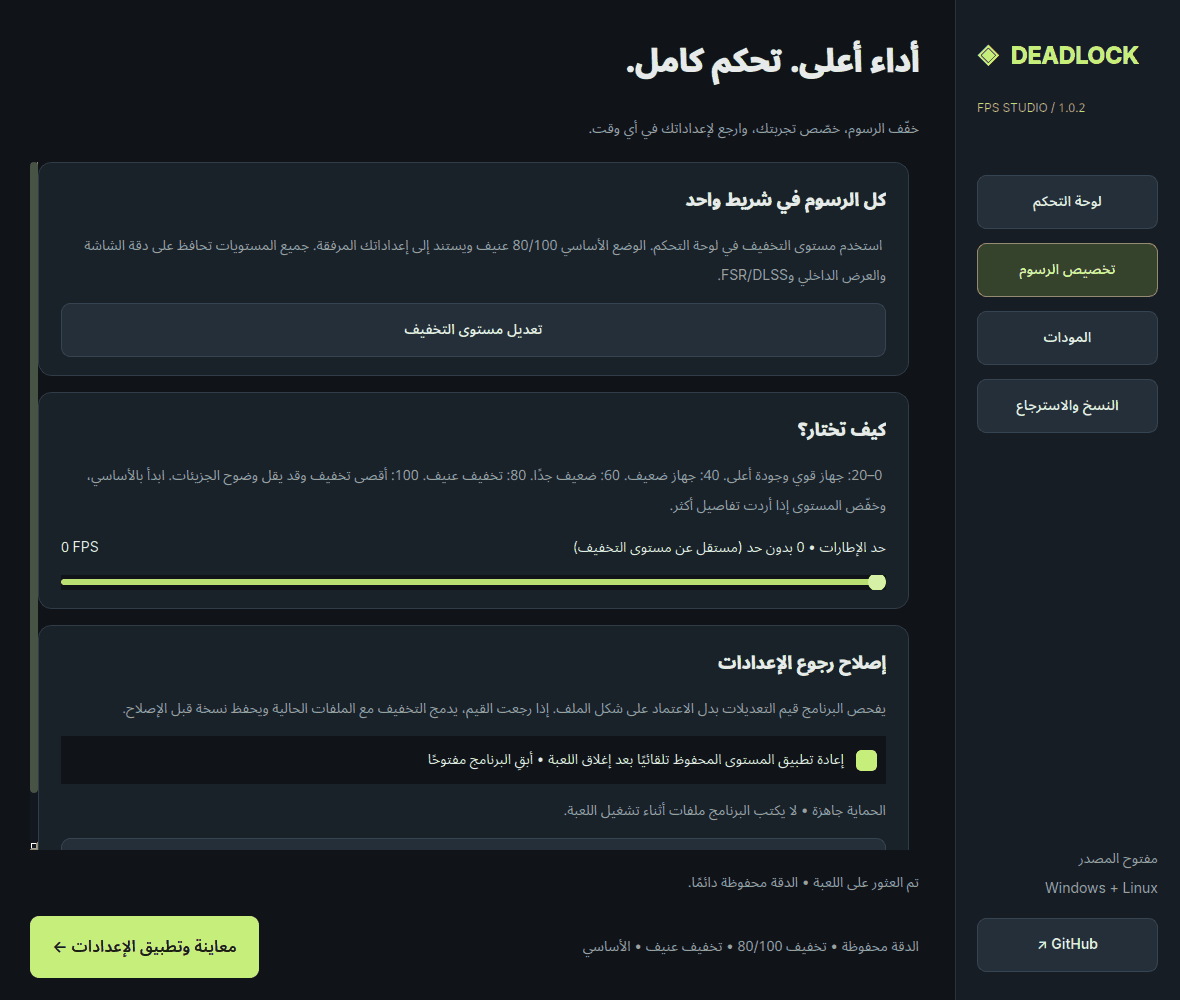
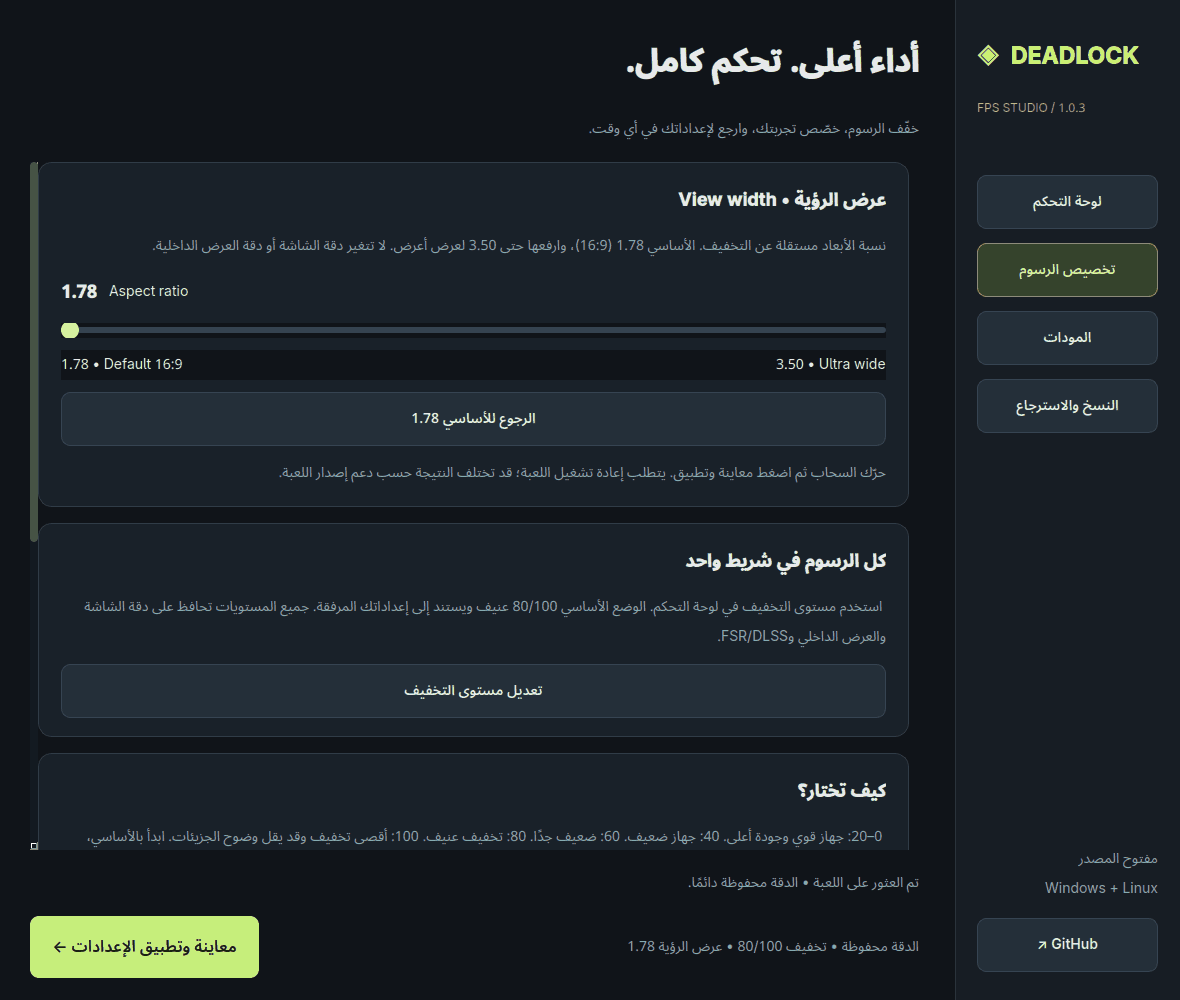
Release 1.0.3: independent view width slider from 1.78 to 3.50

diff --git a/deadlock_fps/ui.py b/deadlock_fps/ui.py
@@ -46,7 +46,7 @@ class Window(QMainWindow):
         self.library=ModLibrary(Path(QStandardPaths.writableLocation(QStandardPaths.AppDataLocation))/'mods')
         root=QWidget();self.setCentralWidget(root);layout=QHBoxLayout(root);layout.setContentsMargins(0,0,0,0)
         sidebar=QFrame();sidebar.setObjectName('sidebar');sidebar.setFixedWidth(225);side=QVBoxLayout(sidebar);side.setContentsMargins(22,32,22,28);side.setSpacing(14)
-        side.addWidget(label('◈  DEADLOCK','brand'));side.addWidget(label('FPS STUDIO / 1.0.2','eyebrow'));side.addSpacing(40)
+        side.addWidget(label('◈  DEADLOCK','brand'));side.addWidget(label('FPS STUDIO / 1.0.3','eyebrow'));side.addSpacing(40)
         self.stack=QStackedWidget();self.nav=[];self.guard_signature=None;self.guard_retries=0;self.guard_attempts={}
         for index,text in enumerate(['لوحة التحكم','تخصيص الرسوم','المودات','النسخ والاسترجاع']):
             b=QPushButton(text);b.setCheckable(True);b.clicked.connect(lambda _,i=index:self.navigate(i));side.addWidget(b);self.nav.append(b)
@@ -100,14 +100,24 @@ class Window(QMainWindow):
     def check(self,layout,key,title):
         b=QCheckBox(title);b.stateChanged.connect(self.changed);layout.addWidget(b);self.controls[key]=b
     def graphics(self):
-        v=self.page();f,c=card('كل الرسوم في شريط واحد','استخدم مستوى التخفيف في لوحة التحكم. الوضع الأساسي 80/100 عنيف ويستند إلى إعداداتك المرفقة. جميع المستويات تحافظ على دقة الشاشة والعرض الداخلي وFSR/DLSS.');v.addWidget(f)
+        v=self.page()
+        f,c=card('عرض الرؤية • View width','نسبة الأبعاد مستقلة عن التخفيف. الأساسي 1.78 (16:9)، وارفعها حتى 3.50 لعرض أعرض. لا تتغير دقة الشاشة أو دقة العرض الداخلية.');v.addWidget(f)
+        row=QHBoxLayout();row.addWidget(label('Aspect ratio'),1);self.aspect_value=label('1.78','cardtitle');self.aspect_value.setLayoutDirection(Qt.LeftToRight);row.addWidget(self.aspect_value);c.addLayout(row)
+        self.aspect=QSlider(Qt.Horizontal);self.aspect.setLayoutDirection(Qt.LeftToRight);self.aspect.setRange(178,350);self.aspect.setSingleStep(1);self.aspect.setPageStep(10);self.aspect.setValue(178);self.aspect.valueChanged.connect(self.aspect_changed);c.addWidget(self.aspect)
+        ends=QWidget();ends.setLayoutDirection(Qt.LeftToRight);row=QHBoxLayout(ends);row.setContentsMargins(0,0,0,0);row.addWidget(label('1.78 • Default 16:9'));row.addStretch();row.addWidget(label('3.50 • Ultra wide'));c.addWidget(ends)
+        button=QPushButton('الرجوع للأساسي 1.78');button.clicked.connect(lambda:self.aspect.setValue(178));c.addWidget(button)
+        c.addWidget(label('حرّك السحاب ثم اضغط معاينة وتطبيق. يتطلب إعادة تشغيل اللعبة؛ قد تختلف النتيجة حسب دعم إصدار اللعبة.','subtitle'))
+        f,c=card('كل الرسوم في شريط واحد','استخدم مستوى التخفيف في لوحة التحكم. الوضع الأساسي 80/100 عنيف ويستند إلى إعداداتك المرفقة. جميع المستويات تحافظ على دقة الشاشة والعرض الداخلي وFSR/DLSS.');v.addWidget(f)
         button=QPushButton('تعديل مستوى التخفيف');button.clicked.connect(lambda:self.navigate(0));c.addWidget(button)
         f,c=card('كيف تختار؟','0–20: جهاز قوي وجودة أعلى. 40: جهاز ضعيف. 60: ضعيف جدًا. 80: تخفيف عنيف. 100: أقصى تخفيف وقد يقل وضوح الجزيئات. ابدأ بالأساسي، وخفّض المستوى إذا أردت تفاصيل أكثر.');v.addWidget(f)
+        f,c=card('حد الإطارات','مستقل عن مستوى التخفيف ونسبة الأبعاد.');v.addWidget(f)
         self.slider(c,'fps','حد الإطارات • 0 بدون حد (مستقل عن مستوى التخفيف)',0,500,' FPS')
         f,c=card('إصلاح رجوع الإعدادات','يفحص البرنامج قيم التعديلات بدل الاعتماد على شكل الملف. إذا رجعت القيم، يدمج التخفيف مع الملفات الحالية ويحفظ نسخة قبل الإصلاح.');v.addWidget(f)
         self.guard=QCheckBox('إعادة تطبيق المستوى المحفوظ تلقائيًا بعد إغلاق اللعبة • أبقِ البرنامج مفتوحًا');self.guard.setChecked(True);c.addWidget(self.guard)
         self.guard_status=label('الحماية جاهزة • لا يكتب البرنامج ملفات أثناء تشغيل اللعبة.','subtitle');c.addWidget(self.guard_status)
         button=QPushButton('فحص وإصلاح رجوع الإعدادات الآن');button.clicked.connect(self.repair_settings);c.addWidget(button);v.addStretch()
+    def aspect_changed(self,value):
+        self.aspect_value.setText(f'{value/100:.2f}');self.changed()
     def level_changed(self,value):
         name,desc=level_info(value);s=Settings.at_level(value)
         self.level_title.setText(f'{value}/100 • {name}');self.level_description.setText(desc)
@@ -198,14 +208,16 @@ class Window(QMainWindow):
         c.addLayout(row);v.addStretch()
     def changed(self,*_):
         if hasattr(self,'level') and 'fps' in self.controls:
-            self.summary.setText(f'الدقة محفوظة • تخفيف {self.level.value()}/100 • '+level_info(self.level.value())[0])
+            self.summary.setText(f'الدقة محفوظة • تخفيف {self.level.value()}/100 • عرض الرؤية {self.aspect.value()/100:.2f}')
     def load_settings(self,s):
         self.level.setValue(s.level);self.level_changed(s.level)
         self.controls['fps'].setValue(s.fps)
+        self.aspect.setValue(round((s.aspect_ratio if s.aspect_ratio is not None else 1.78)*100));self.aspect_changed(self.aspect.value())
         for key,b in self.mod_checks.items():b.setChecked(key in s.mods)
-    def load_preset(self,key):self.load_settings(copy.deepcopy(PRESETS[key]))
+    def load_preset(self,key):
+        s=copy.deepcopy(PRESETS[key]);s.aspect_ratio=self.aspect.value()/100;self.load_settings(s)
     def settings(self):
-        s=Settings.at_level(self.level.value(),fps=self.controls['fps'].value(),preset='custom',mods=tuple(k for k,b in self.mod_checks.items() if b.isChecked()));s.validate();return s
+        s=Settings.at_level(self.level.value(),aspect_ratio=self.aspect.value()/100,fps=self.controls['fps'].value(),preset='custom',mods=tuple(k for k,b in self.mod_checks.items() if b.isChecked()));s.validate();return s
     def browse_game(self):
         p=QFileDialog.getExistingDirectory(self,'اختر مجلد Deadlock')
         if p:self.path.setText(p);self.refresh_accounts()

diff --git a/tests/test_103.py b/tests/test_103.py
@@ -1,0 +1,36 @@
+import tempfile,unittest
+from pathlib import Path
+from deadlock_fps.core import Studio,ASSETS,flat
+from deadlock_fps.settings import Settings,values
+from PySide6.QtWidgets import QApplication
+from deadlock_fps.ui import Window
+
+class Aspect(unittest.TestCase):
+    def test_range_and_legacy_profiles(self):
+        for bad in [1.77,3.51,float('nan'),float('inf'),'3.50',True]:
+            with self.assertRaises(ValueError):Settings(aspect_ratio=bad).validate()
+        for value in [1.78,2.30,3.50]:
+            s=Settings(aspect_ratio=value);s.validate();self.assertEqual(values(s)[1]['r_aspectratio'],f'{value:.2f}')
+        self.assertIsNone(Settings.from_dict({'level':80}).aspect_ratio)
+        self.assertEqual(Settings.from_dict(Settings(aspect_ratio=3.5).to_dict()).aspect_ratio,3.5)
+    def test_apply_repair_and_restore_keep_screen_dimensions(self):
+        with tempfile.TemporaryDirectory() as d:
+            root=Path(d).resolve();gi=root/'game/citadel/gameinfo.gi';gi.parent.mkdir(parents=True);gi.write_bytes((ASSETS/'reference/gameinfo.gi').read_bytes())
+            video=root/'game/citadel/cfg/video.txt';video.parent.mkdir();video.write_bytes((ASSETS/'reference/video.txt').read_bytes());before=flat(video.read_text(),['video.cfg']);original=gi.read_bytes()
+            studio=Studio(root,video);s=Settings(aspect_ratio=3.5)
+            studio.apply(studio.plan(s),s);self.assertEqual(flat(gi.read_text(),['GameInfo','ConVars'])['r_aspectratio'],'3.50')
+            from deadlock_fps import kv
+            gi.write_text(kv.update(gi.read_text(),['GameInfo','ConVars'],{'r_aspectratio':'1.78'}));studio.repair(d)
+            self.assertEqual(flat(gi.read_text(),['GameInfo','ConVars'])['r_aspectratio'],'3.50')
+            after=flat(video.read_text(),['video.cfg'])
+            for key in ['setting.defaultres','setting.defaultresheight','setting.mat_viewportscale','setting.r_citadel_upscaling']:self.assertEqual(before[key],after[key])
+            studio.restore();self.assertEqual(flat(gi.read_text(),['GameInfo','ConVars']),flat(original.decode(),['GameInfo','ConVars']))
+            s=Settings(engine=False,aspect_ratio=3.5);studio.apply(studio.plan(s),s)
+            self.assertEqual(flat(gi.read_text(),['GameInfo','ConVars'])['r_aspectratio'],'3.50')
+    def test_slider_and_master_level_are_independent(self):
+        app=QApplication.instance() or QApplication([]);w=Window();w.guard_timer.stop()
+        self.assertEqual((w.aspect.minimum(),w.aspect.maximum()),(178,350));w.aspect.setValue(350)
+        self.assertEqual(w.aspect_value.text(),'3.50');self.assertEqual(w.settings().aspect_ratio,3.5)
+        w.level.setValue(25);self.assertEqual(w.settings().aspect_ratio,3.5)
+        w.load_preset('ultra');self.assertEqual(w.settings().aspect_ratio,3.5)
+        w.aspect.setValue(178);self.assertEqual(w.aspect_value.text(),'1.78');w.close()

diff --git a/deadlock_fps/settings.py b/deadlock_fps/settings.py
@@ -13,9 +13,12 @@ class Settings:
     cpu: bool = True
     engine: bool = True
     mods: tuple = ()
+    aspect_ratio: float | None = None
     def validate(self):
         if type(self.level) is not int or not 0<=self.level<=100 or not 0<=self.textures<=4 or not 0<=self.particles<=2 or not 0<=self.fps<=500:
             raise ValueError('Graphics settings outside allowed range')
+        if self.aspect_ratio is not None and (type(self.aspect_ratio) not in (int,float) or not 1.78<=self.aspect_ratio<=3.50):
+            raise ValueError('نسبة الأبعاد يجب أن تكون بين 1.78 و3.50.')
         if 'names' in self.mods and 'health' in self.mods: raise ValueError('مود إزالة الأسماء يتعارض مع مود شريط الصحة القديم؛ اختر أحدهما.')
         if any(m not in MODS for m in self.mods): raise ValueError('Unknown mod')
     @classmethod
@@ -100,6 +103,7 @@ def values(s):
             'cl_particle_sim_fallback_base_multiplier':'100','cl_particle_sim_fallback_threshold_ms':'1',
             'r_update_particles_on_render_only_frames':'true'})
         video.update({'setting.cl_particle_fallback_base':'6','setting.cl_particle_fallback_multiplier':'4'})
+    if s.aspect_ratio is not None:convars['r_aspectratio']=f'{s.aspect_ratio:.2f}'
     return video,convars,scene
 
 TEXTURE_LABELS = ["خامات مفصلة", "تخفيف بسيط", "تخفيف متوسط", "خامات بسيطة", "أبسط خامات • أقصى تخفيف"]

diff --git a/deadlock_fps/core.py b/deadlock_fps/core.py
@@ -244,6 +244,8 @@ class Studio:
         if s.engine:
             text=kv.update(text,['GameInfo','ConVars'],convars)
             text=kv.update(text,['GameInfo','SceneSystem'],scene)
+        elif s.aspect_ratio is not None:
+            text=kv.update(text,['GameInfo','ConVars'],{'r_aspectratio':f'{s.aspect_ratio:.2f}'})
         if s.mods: text=kv.add_search_path(text)
         planned[gi]=text.encode()
         if self.video:
@@ -320,6 +322,8 @@ class Studio:
                 entry['owned']=prior if mod_only and prior else footprint(original,b.decode('utf-8-sig'),p)
                 if not mod_only:
                     v,c,scene=values(s)
+                    if not s.engine:
+                        c={'r_aspectratio':c['r_aspectratio']} if s.aspect_ratio is not None else {};scene={}
                     entry['owned']=[(['video.cfg'],list(v))] if p.name=='video.txt' else [(['GameInfo','ConVars'],list(c)),(['GameInfo','SceneSystem'],list(scene))]
         new['schema']=2;new['settings']=s.to_dict(); new['updated']=datetime.now(timezone.utc).isoformat()
         try:

diff --git a/deadlock_fps/__init__.py b/deadlock_fps/__init__.py
@@ -1,2 +1,2 @@
 """Deadlock FPS Studio."""
-__version__ = '1.0.2'
+__version__ = '1.0.3'

diff --git a/README.md b/README.md
@@ -2,7 +2,7 @@
 
 # Deadlock FPS Studio
 
-برنامج مكتبي مفتوح المصدر لتخفيف رسوم Deadlock على **Windows وLinux**. واجهة عربية، شريط واحد للتخفيف التدريجي، تركيب مودات ذكي، إصلاح رجوع الإعدادات، معاينة ونسخ احتياطية. **الإصدار 1.0.2 لا يغيّر دقة الشاشة أو دقة العرض الداخلية أو إعدادات FSR/DLSS في أي وضع.**
+برنامج مكتبي مفتوح المصدر لتخفيف رسوم Deadlock على **Windows وLinux**. واجهة عربية، شريط واحد للتخفيف التدريجي، تركيب مودات ذكي، إصلاح رجوع الإعدادات، معاينة ونسخ احتياطية. **الإصدار 1.0.3 لا يغيّر دقة الشاشة أو دقة العرض الداخلية أو إعدادات FSR/DLSS في أي وضع.**
 
 ![الواجهة](docs/screenshot.png)
 
@@ -22,6 +22,12 @@
 6. اضغط **معاينة وتطبيق**، راجع الفروقات، ثم طبّق. جرّب وضوح المؤثرات في التدريب.
 
 المستوى يجمع الخامات والظلال والضباب والوهج والتظليل المحيطي والجزيئات والحطام والقوائم في شريط واحد. عند 60 يبدأ تخفيف الأعشاب والحطام والمؤثرات، وعند 80 يضاف تخفيف الإضاءة والضباب والخامات بقوة، وعند 90–100 تضاف قيم particle fallback العنيفة من الحزمة. قد يقل وضوح بعض المؤثرات في أقصى مستوى؛ جرّب التدريب أولًا. المستوى لا يغيّر دقة الشاشة أو العرض الداخلي أو FSR/DLSS. حد الإطارات منفصل لأن تقليل سقف FPS ليس مستوى لتخفيف الرسوم. لا توجد زيادة FPS مضمونة.
+
+## عرض الرؤية • جديد في 1.0.3
+
+في صفحة **تخصيص الرسوم** يوجد سحاب مستقل لنسبة الأبعاد **Aspect ratio** من **1.78** (16:9) إلى **3.50**، بدقة 0.01، مع قيمة رقمية وزر للرجوع للأساسي. حرّكه ثم اضغط **معاينة وتطبيق الإعدادات** وأعد تشغيل اللعبة. يُحفظ في الإعدادات المصدّرة وفي وصفة الإصلاح؛ تحريك مستوى التخفيف لا يغيّر نسبة الأبعاد المختارة.
+
+يُستخدم `r_aspectratio` من ملف gameinfo المرفق. لا يتم تغيير أبعاد الشاشة بالبكسل أو دقة العرض الداخلية أو FSR/DLSS. ملفات الإعدادات القديمة التي لا تحتوي على النسبة تبقى دون فرض نسبة جديدة أثناء الإصلاح التلقائي. دعم القيمة ومظهرها داخل اللعبة يعتمدان على إصدار Deadlock؛ تم اختبار كتابة الإعداد واسترجاعه، وليس المشهد داخل مباراة.
 
 ## إصلاح رجوع الإعدادات
 
@@ -61,6 +67,6 @@ python main.py
 python build.py
 ```
 
-Build on the target OS. Outputs are in `dist/`; GitHub Actions tests and packages both platforms and publishes v1.0.2 after successful main builds. Windows executables are unsigned. Linux desktop libraries are still required; this is a portable folder, not an AppImage.
+Build on the target OS. Outputs are in `dist/`; GitHub Actions tests and packages both platforms and publishes v1.0.3 after successful main builds. Windows executables are unsigned. Linux desktop libraries are still required; this is a portable folder, not an AppImage.
 
 App source: MIT. Third-party files and Qt dependencies retain their own licenses; see [THIRD_PARTY.md](THIRD_PARTY.md). Deployment reference: [Qt for Python packaging](https://doc.qt.io/qtforpython-6/deployment/index.html).

diff --git a/docs/SOURCE_AUDIT.md b/docs/SOURCE_AUDIT.md
@@ -29,3 +29,7 @@ Resolution controls removed. Current screen dimensions, viewport scale and upsca
 Default 80/100 aggressive level, one monotonic master control. Selected extra runtime graphics values from the supplied files are applied at levels 60/80/90; no aspect ratio, resolution, GPU capability, network, compiler/editor or hardcoded memory edits are copied. Critical particle spawn scale stays intact; extreme fallback values at 90+ can reduce effect visibility. Original file text is reference data, not instructions overriding the user's resolution constraint.
 
 Local read-only diagnosis found only video.txt different from the prior manifest; selected 1.0.1 graphics values were intact. Numeric formatting and current display fields differed. Thus no specific cloud/reset cause was established. Fix uses semantic comparisons, recorded owned keys, snapshot-before-repair, current-schema rebase, and idle polling in the open GUI. It does not block the engine, write during gameplay, run an OS service or guarantee that the engine accepts unsupported settings.
+
+## 1.0.3 changes
+
+User explicitly requested an independent aspect-ratio slider from 1.78 to 3.50. The existing supplied r_aspectratio runtime value is now opt-in in the data model and selected through the GUI, with 0.01 increments. Pixel dimensions, viewport scale and upscaler settings remain protected. Old saved recipes omit this override. Application, reset repair, restore, profile round-trip and independent master control are covered by tests; no live gameplay support claim is made.
